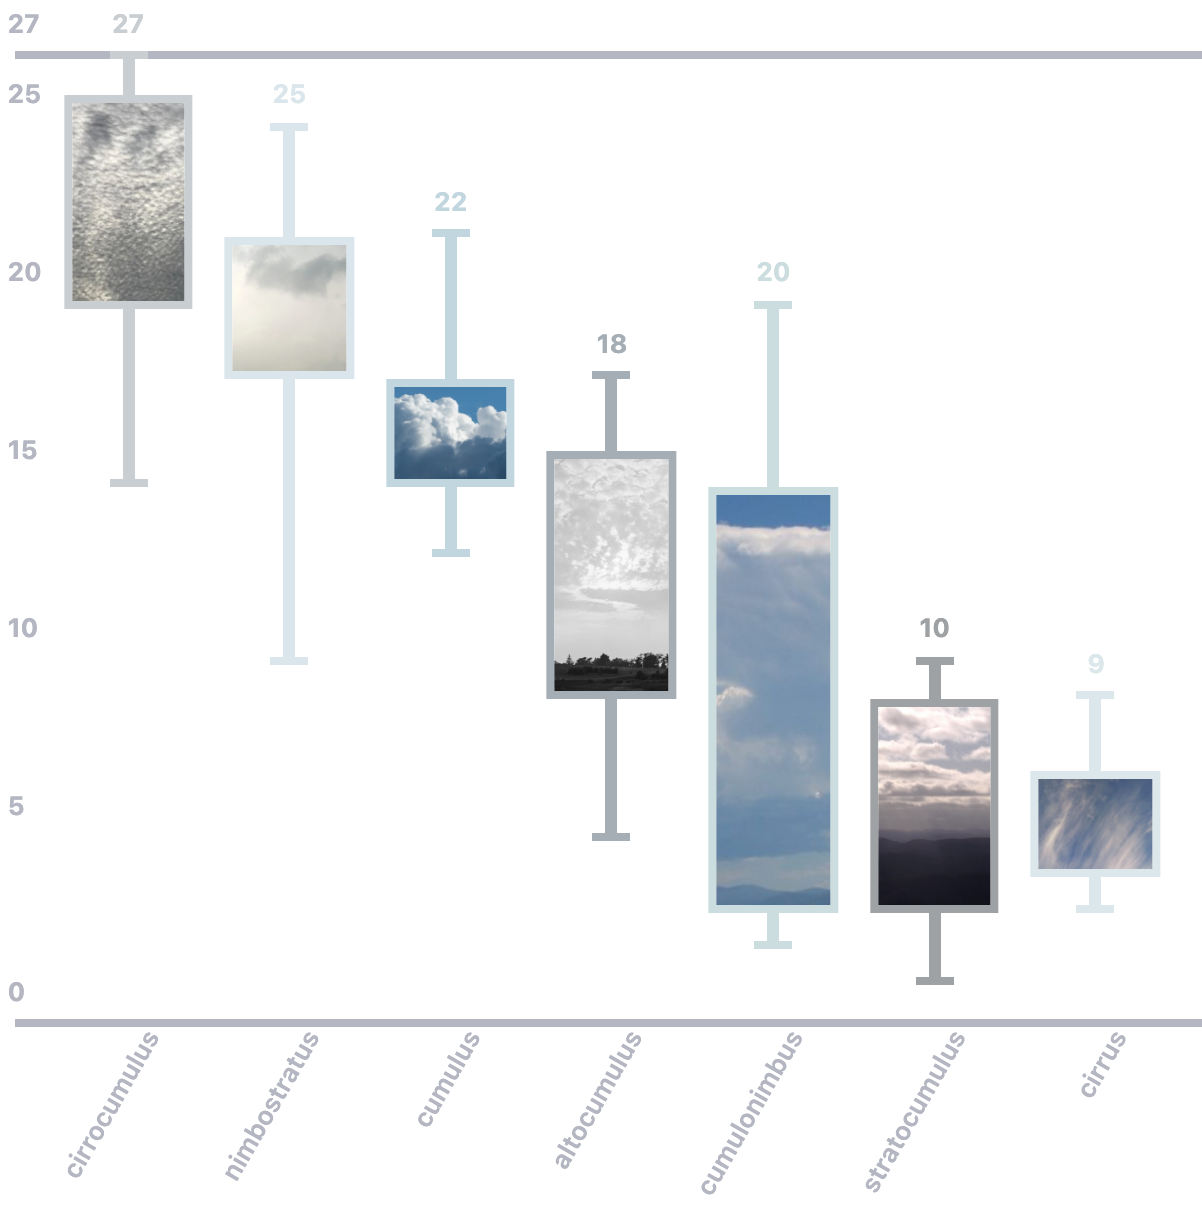
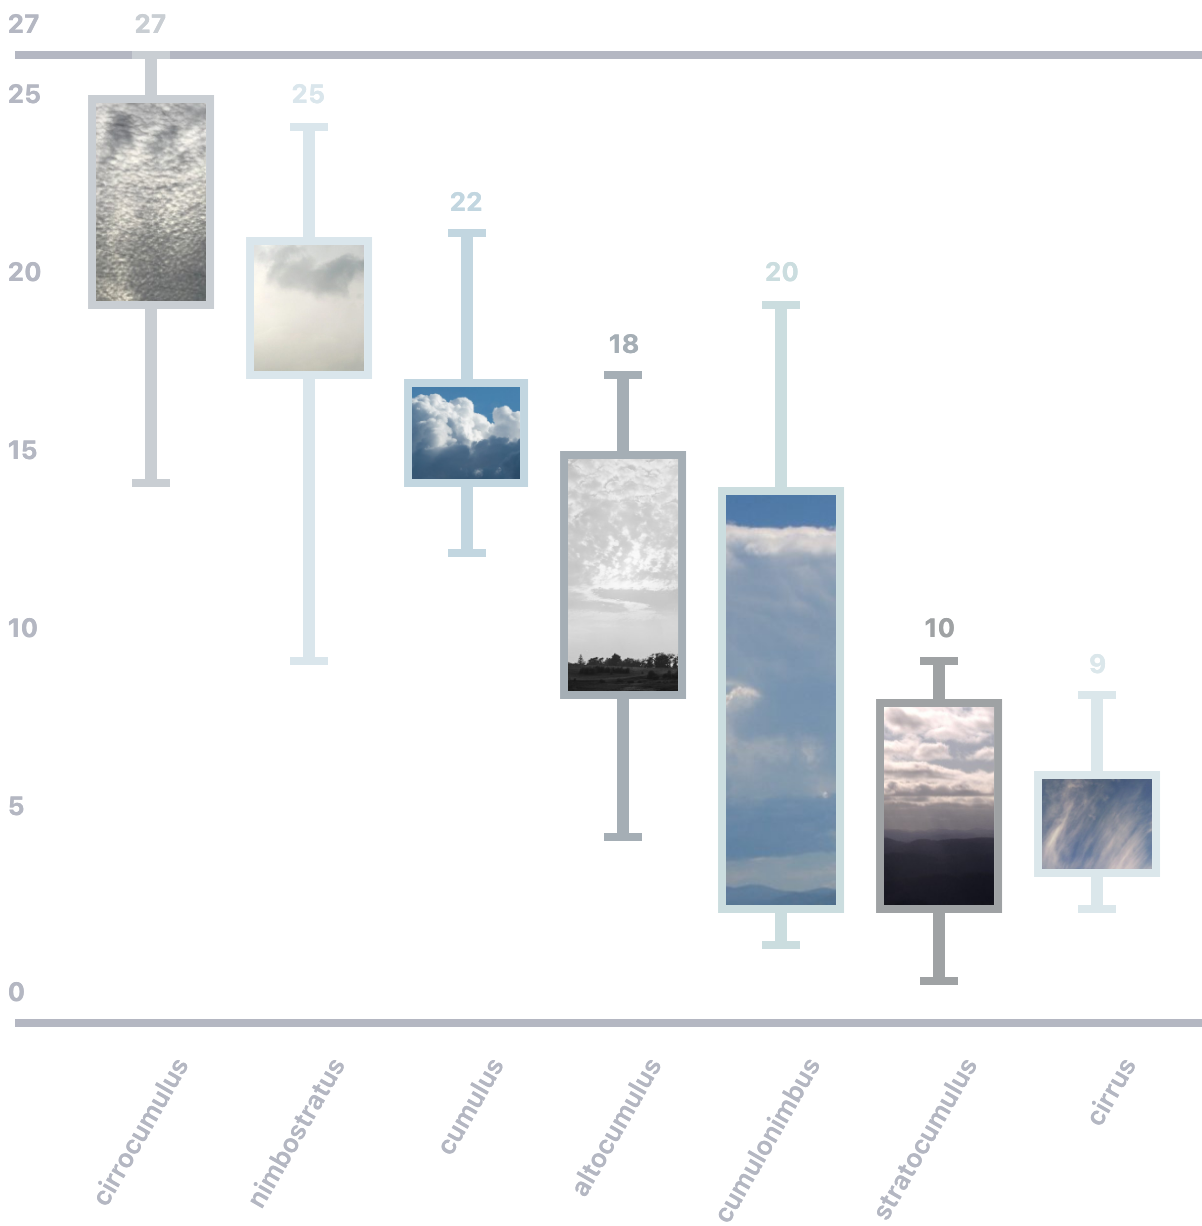
Let the box plot's slider stretch cirrus, and give the names and the standing columns more room
The slider moves cirrus' box end now instead of stratocumulus'. A name ends 16px before the plot instead of 8px, and
standing up 10px before its column. Standing up, the columns start 28px right of the scale's numbers instead of 16px:
the scale asks for more room before the plot and draws its marks and numbers that much further left, so it stays where
it was and only the columns move.

diff --git a/src/gallery/examples/box-plot/poster/chart.jsx b/src/gallery/examples/box-plot/poster/chart.jsx
@@ -13,10 +13,11 @@ import cirrocumulus from "./assets/cirrocumulus.jpg?url";
 
 // v1's scale: a Scale in the Chart draws it, one slat per tick, a mark and its number.
 // The marks start 16px above the first slat, and the numbers sit over them, in the room this slat asks for.
+// Standing up, they start 28px left of the first column, to leave space between the numbers and the columns.
 // A mark is "zero" (solid, just before 0), "end" (solid, at the max), or between them `marks`:
 // "line" (dashed, as long as the plot) or "tick" (13px long).
 export const V1Scale = slat({
-  room: { horizontal: { before: 40, after: 13 }, vertical: { before: 24, end: 30, after: 13 } },
+  room: { horizontal: { before: 40, after: 13 }, vertical: { before: 36, end: 30, after: 13 } },
   css: styles.scale,
 }, (t) => {
   // A number just before the end would run into the end mark, so it's left out, and only then: horizontal, when its
@@ -37,11 +38,12 @@ const PHOTOS = [stratocumulus, cumulonimbus, altocumulus, cirrus, nimbostratus, 
 const GREYS = ["#9fa2a4", "#cbdddf", "#a5aeb5", "#dbe7eb", "#dae6ec", "#c2d6e0", "#c9ced3"];
 // v1's data: [low whisker, box start, box end, high whisker] per cloud
 const WHISKERS = [[1, 3, 9, 10], [2, 3, 15, 20], [5, 9, 16, 18], [3, 4, 7, 9], [10, 18, 22, 25], [13, 15, 18, 22], [15, 20, 26, 27]];
+const SLID = CLOUDS.indexOf("cirrus"); // the cloud whose box the slider stretches
 
 export const BoxSlat = slat({
   thickness: { horizontal: 79 },
   inset: "8px",
-  room: { horizontal: { start: 124, end: 37 }, vertical: { start: 96, end: 30 } }, // for the names and values
+  room: { horizontal: { start: 132, end: 37 }, vertical: { start: 104, end: 30 } }, // for the names and values
   css: styles.box,
 }, (d) => (
   <div class={d.dim ? "slat dim" : "slat"} style={{ "--rhp-color": d.color }}>
@@ -62,11 +64,11 @@ const whiskers = () => {
 
 export default function Clouds(p) {
   const data = createMemo(() => (p.seed() ? CLOUDS.map(whiskers) : WHISKERS));
-  // The slider moves stratocumulus' box end (its 3rd value); the high whisker is pushed along past it, and
-  // comes back when the box shrinks again. New data resets it.
+  // The slider moves cirrus' box end (its 3rd value); the high whisker is pushed along past it, and comes back when
+  // the box shrinks again. New data resets it.
   const [end, setEnd] = createSignal();
   createComputed(on(data, () => setEnd(undefined)));
-  const boxes = createMemo(() => data().map((b, i) => (i === 0 && end() != null ? [b[0], b[1], Math.max(b[1], end()), Math.max(b[3], end())] : b)));
+  const boxes = createMemo(() => data().map((b, i) => (i === SLID && end() != null ? [b[0], b[1], Math.max(b[1], end()), Math.max(b[3], end())] : b)));
   const max = createMemo(() => Math.max(...boxes().map((b) => b[3]))); // "Fit"
   const [ranked, setRanked] = createSignal(true);
   const [dim, setDim] = createSignal(false);
@@ -75,9 +77,9 @@ export default function Clouds(p) {
       <div class="buttons">
         <button class="mini" onClick={() => setRanked(!ranked())}>{ranked() ? "Initial" : "Rank"}</button>
         <button class="mini" onClick={() => setDim(!dim())}>{dim() ? "Saturate" : "Desaturate"}</button>
-        <label class="slider">stratocumulus box end
-          <input type="range" min={boxes()[0][1]} max="40" value={boxes()[0][2]} onInput={(e) => setEnd(+e.currentTarget.value)} />
-          <output>{boxes()[0][2]}</output>
+        <label class="slider">cirrus box end
+          <input type="range" min={boxes()[SLID][1]} max="40" value={boxes()[SLID][2]} onInput={(e) => setEnd(+e.currentTarget.value)} />
+          <output>{boxes()[SLID][2]}</output>
         </label>
       </div>
       <Chart orientation={p.o()} scale={[0, max()]} height={480} animate={p.js()}>

diff --git a/src/gallery/examples/box-plot/poster/styles.js b/src/gallery/examples/box-plot/poster/styles.js
@@ -4,7 +4,7 @@
 export const scale = `
 .mark { --rhp-tick-width: 4px; background: var(--rhp-muted); translate: none; }
 .mark:horizontal { top: -16px; bottom: -12.8px; height: auto; }
-.mark:vertical { left: -16px; right: -12.8px; width: auto; }
+.mark:vertical { left: -28px; right: -12.8px; width: auto; }
 .zero > .mark:horizontal { translate: -100% 0; }
 .zero > .mark:vertical { translate: 0 100%; }
 .line > .mark { background: none; }
@@ -16,16 +16,17 @@ export const scale = `
 .num { font-size: 13px; font-weight: 700; line-height: 19.5px; font-variant-numeric: normal; color: var(--rhp-muted); translate: none; --rhp-label-gap: 8px; }
 .zero > .num { --rhp-label-gap: 4px; }
 .num:horizontal { top: -20px; }
-.num:vertical { left: -20px; }
+.num:vertical { left: -32px; }
 .num.crowded { visibility: hidden; }
 `;
 
 // A cloud: its name, the whiskers and their caps, the box filled with its photo, and the top value. Hover a slat to zoom the photo out.
 export const box = `
-.name { font-size: 15px; font-weight: 600; line-height: 1.2; color: var(--rhp-muted); }
+.name { font-size: 15px; font-weight: 600; line-height: 1.2; color: var(--rhp-muted); --rhp-label-gap: 16px; }
 /* Standing up, a column is too narrow for a name, so the name is turned 60 degrees and reads up to its own column.
-   Its right end is pinned to the middle of the column and it swings down and to the left from there. */
-.name:vertical { left: auto; right: 50%; width: max-content; padding-inline: 0; font-size: 13px; white-space: nowrap;
+   Its right end is pinned to the middle of the column and it swings down and to the left from there.
+   Its text ends 10px before that point. */
+.name:vertical { left: auto; right: 50%; width: max-content; padding-inline: 0 10px; font-size: 13px; white-space: nowrap;
   text-align: right; overflow: visible; transform-origin: 100% 0; transform: rotate(-60deg); }
 .whisker, .box { --rhp-radius: 0px; }
 .cap { --rhp-tick-width: 4px; }
